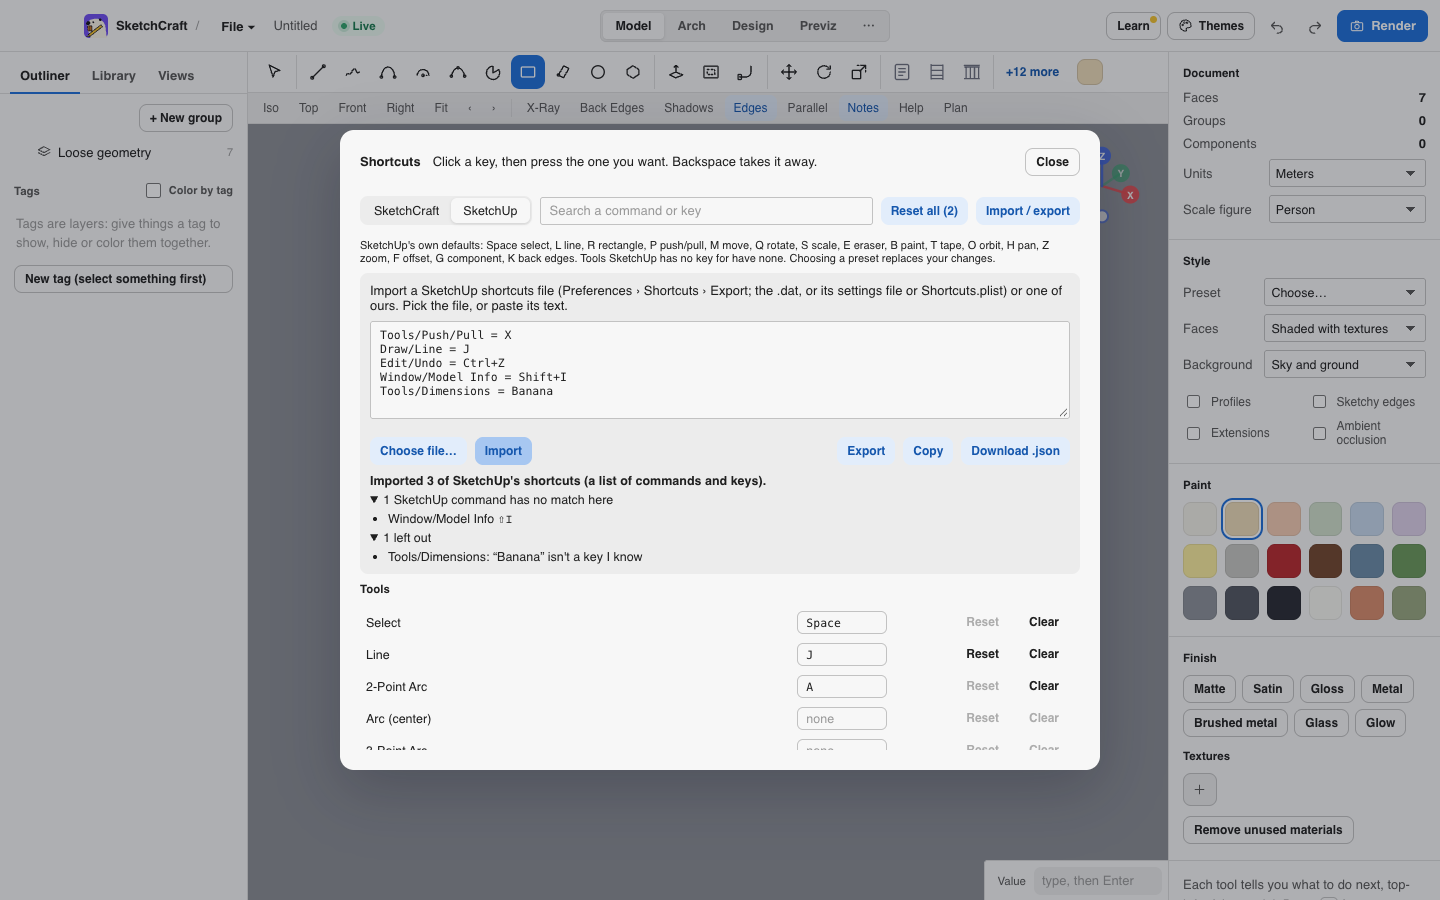
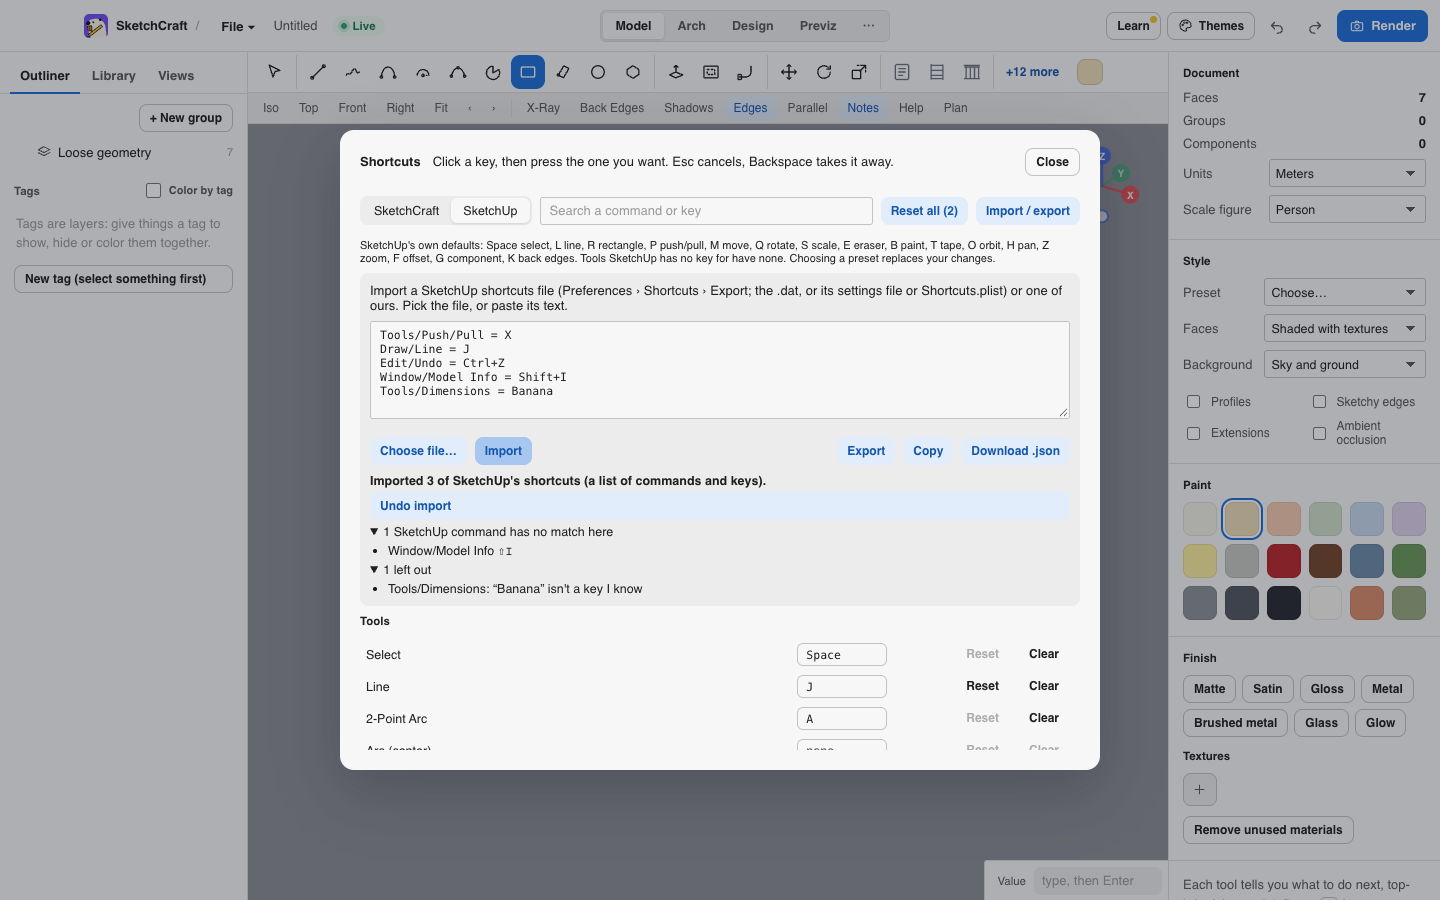
Shortcuts: AZERTY symbols, safe swap, imports that match nothing change nothing (with undo), accessibility notes (#60)

diff --git a/app/src/shortcutseditor.tsx b/app/src/shortcutseditor.tsx
@@ -6,6 +6,7 @@ import { useLayoutEffect, useMemo, useRef, useState } from "react";
 import { Sheet, useEscapeToClose } from "./sheet";
 import { COMMANDS, PRESETS, assign, comboFromEvent, commandDef, formatCombo, holderOf, importKeymap, exportKeymap, presetBindings, reservedReason, resetOne, withPreset, type CommandDef, type CommandGroup, type Combo } from "./keymap";
 import { importSketchUp, readSketchUpShortcuts, type SketchUpEntry } from "./sketchupkeys";
+import type { KeymapState } from "./keymap";
 import { keymap, useKeymap } from "./keymapstore";
 
 const GROUPS: CommandGroup[] = ["Tools", "Camera", "Edit", "File", "View", "Window", "Plugins"];
@@ -37,6 +38,8 @@ export function ShortcutEditor({ onClose }: { onClose: () => void }) {
   const [tools, setTools] = useState(false);
   const [text, setText] = useState("");
   const [report, setReport] = useState<Report | null>(null);
+  /** your keys from before the last import, so it can be undone */
+  const [undo, setUndo] = useState<KeymapState | null>(null);
   const fileInput = useRef<HTMLInputElement>(null);
 
   const all: CommandDef[] = useMemo(() => [...COMMANDS, ...keymap.extra()], [res]);
@@ -59,6 +62,8 @@ export function ShortcutEditor({ onClose }: { onClose: () => void }) {
     if (!rec) return;
     const onKey = (e: KeyboardEvent) => {
       if (e.key === "Escape") return;
+      // Tab moves on as usual (and ends the pick), so the keyboard is never trapped
+      if (e.key === "Tab") return setRec(null);
       e.preventDefault();
       e.stopImmediatePropagation();
       if (e.key === "Backspace") {
@@ -88,12 +93,15 @@ export function ShortcutEditor({ onClose }: { onClose: () => void }) {
     setClash(null);
     const ours = importKeymap(raw);
     if (ours) {
+      setUndo(keymap.state());
       keymap.set(ours.state);
       return setReport({ title: `Imported ${ours.applied} shortcuts from a SketchCraft file.`, unmapped: [], skipped: ours.skipped });
     }
     const read = readSketchUpShortcuts(raw);
     if (read.format === "none" || (!read.entries.length && !read.unreadable.length)) return setReport({ title: "That doesn't look like a SketchCraft or SketchUp shortcuts file. Nothing was changed.", unmapped: [], skipped: [], bad: true });
     const imp = importSketchUp(read);
+    if (!imp.applied.length) return setReport({ title: "Nothing in that file matched a SketchCraft command. Nothing was changed.", unmapped: imp.unmapped, skipped: imp.skipped, bad: true });
+    setUndo(keymap.state());
     keymap.set(imp.state);
     setReport({ title: `Imported ${imp.applied.length} of SketchUp's shortcuts (${read.format === "plist" ? "a Mac property list" : read.format === "settings" ? "SketchUp's settings file" : "a list of commands and keys"}).`, unmapped: imp.unmapped, skipped: imp.skipped });
   };
@@ -129,7 +137,7 @@ export function ShortcutEditor({ onClose }: { onClose: () => void }) {
     <Sheet onClose={onClose} label="Customize shortcuts" className="key-editor" width={760}>
       <div className="sheet-head">
         <b>Shortcuts</b>
-        <span className="muted">Click a key, then press the one you want. Backspace takes it away.</span>
+        <span className="muted">Click a key, then press the one you want. Esc cancels, Backspace takes it away.</span>
         <button className="btn small ghost" onClick={onClose}>
           Close
         </button>
@@ -177,9 +185,15 @@ export function ShortcutEditor({ onClose }: { onClose: () => void }) {
               Download .json
             </button>
           </div>
-          {report && (
-            <div className={`key-report ${report.bad ? "bad" : ""}`} role="status">
+          <div className={`key-report ${report?.bad ? "bad" : ""}`} role="status">
+            {report && (
+              <>
               <b>{report.title}</b>
+              {undo && !report.bad && (
+                <button className="btn small" onClick={() => (keymap.set(undo), setUndo(null), setReport({ title: "Import undone: your keys are back as they were.", unmapped: [], skipped: [] }))}>
+                  Undo import
+                </button>
+              )}
               {report.unmapped.length > 0 && (
                 <details open>
                   <summary>{report.unmapped.length} SketchUp command{report.unmapped.length === 1 ? " has" : "s have"} no match here</summary>
@@ -204,8 +218,9 @@ export function ShortcutEditor({ onClose }: { onClose: () => void }) {
                   </ul>
                 </details>
               )}
-            </div>
-          )}
+              </>
+            )}
+          </div>
         </div>
       )}
 
@@ -248,7 +263,8 @@ export function ShortcutEditor({ onClose }: { onClose: () => void }) {
                     <span className="key-name">{d.label}</span>
                     <button
                       className={`key-btn ${isRec ? "rec" : ""} ${k ? "" : "none"}`}
-                      aria-label={`${d.label} shortcut: ${k ? formatCombo(k) : "none"}. Click to change.`}
+                      aria-label={isRec ? `${d.label}: press the new key, Esc to cancel, Backspace to clear` : `${d.label} shortcut: ${k ? formatCombo(k) : "none"}. Click to change.`}
+                      aria-pressed={isRec}
                       onClick={() => (setClash(null), setProblem(""), setRec(isRec ? null : d.id))}
                     >
                       {isRec ? "Press a key…" : k ? <kbd>{formatCombo(k)}</kbd> : "none"}

diff --git a/app/tests/keymap.test.ts b/app/tests/keymap.test.ts
@@ -32,6 +32,11 @@ describe("comboFromEvent", () => {
   it("takes Ctrl as Mod too", () => expect(comboFromEvent(ev({ key: "z", ctrlKey: true }))).toBe("Mod+Z"));
   it("uses the physical key when Option changes the letter", () => expect(comboFromEvent(ev({ key: "¬", code: "KeyL", altKey: true }))).toBe("Alt+L"));
   it("reads Shift+digit as the digit", () => expect(comboFromEvent(ev({ key: "!", code: "Digit1", shiftKey: true }))).toBe("Shift+1"));
+  it("keeps ASCII symbols on a French keyboard, where the comma key is the physical M key", () => {
+    expect(comboFromEvent(ev({ key: ",", code: "KeyM" }))).toBe(",");
+    expect(comboFromEvent(ev({ key: "?", code: "KeyM", shiftKey: true }))).toBe("?");
+    expect(comboFromEvent(ev({ key: "m", code: "Semicolon" }))).toBe("M");
+  });
   it("leaves Shift out of a typed symbol", () => expect(comboFromEvent(ev({ key: "?", code: "Slash", shiftKey: true }))).toBe("?"));
   it("names Space and the arrows", () => {
     expect(comboFromEvent(ev({ key: " ", code: "Space" }))).toBe("Space");
@@ -196,6 +201,14 @@ describe("assign and reset", () => {
     const r = resolveKeymap(s);
     expect(r.bindings["tool:rect"]).toBe("L");
     expect(r.bindings["tool:line"]).toBe("R");
+  });
+  it("a swap never hands Space to a command that may not have it", () => {
+    // Select takes L from Line; Line would get Space, which only Select may have: it is left without one
+    const s = assign(DEFAULT_STATE, r0, "tool:select", "L", "swap");
+    const r = resolveKeymap(s);
+    expect(r.bindings["tool:select"]).toBe("L");
+    expect(r.bindings["tool:line"]).toBe("");
+    expect(readKeymap(JSON.parse(JSON.stringify(s)))).toEqual(s);
   });
   it("a swap with a command that has no key leaves the other without one", () => {
     const s = assign(DEFAULT_STATE, r0, "tool:walk", "L", "swap");

diff --git a/app/src/keymap.ts b/app/src/keymap.ts
@@ -89,7 +89,10 @@ export function comboFromEvent(e: Pick<KeyboardEvent, "key" | "code" | "metaKey"
   let key = e.key;
   // letters and digits by the physical key when the character isn't one (Option+L types "¬" on a Mac; Shift+1 types "!")
   const code = /^Key([A-Z])$/.exec(e.code) ?? /^Digit([0-9])$/.exec(e.code);
-  if (code && !(/^[a-z]$/i.test(key) && !/^[0-9]$/.test(code[1]))) key = code[1];
+  if (code) {
+    if (!/^[\x21-\x7e]$/.test(key)) key = code[1]; // a character from the physical key (Option+L types "¬")
+    else if (e.shiftKey && /^Digit/.test(e.code)) key = code[1]; // Shift+1 types "!", but is Shift+1
+  }
   if (key === "/" && e.shiftKey) key = "?"; // some layouts type "/" with Shift
   const name = keyName(key);
   if (!name) return null;
@@ -357,7 +360,9 @@ export function holderOf(res: Resolved, combo: Combo, id: string): string | null
 export function assign(state: KeymapState, res: Resolved, id: string, combo: Combo, holder: "swap" | "clear" = "clear"): KeymapState {
   const overrides = { ...state.overrides, [id]: combo };
   const other = combo ? holderOf(res, combo, id) : null;
-  if (other) overrides[other] = holder === "swap" ? res.bindings[id] ?? "" : "";
+  // a swap gives the other command this one's key, unless that key is one it may not have (Space belongs to Select)
+  const mine = res.bindings[id] ?? "";
+  if (other) overrides[other] = holder === "swap" && mine && !reservedReason(mine, other) ? mine : "";
   return compact({ preset: state.preset, overrides });
 }
 

diff --git a/app/src/styles/_shortcuts.scss b/app/src/styles/_shortcuts.scss
@@ -54,8 +54,9 @@
   gap: 4px;
   font-size: $font-l;
 
-  &.bad b {
-    color: var(--danger);
+  &.bad {
+    padding-left: 8px;
+    border-left: 3px solid var(--danger);
   }
 
   ul {
@@ -124,7 +125,7 @@
   }
 
   &.none {
-    color: var(--faint);
+    color: var(--muted);
   }
 
   &.rec {
